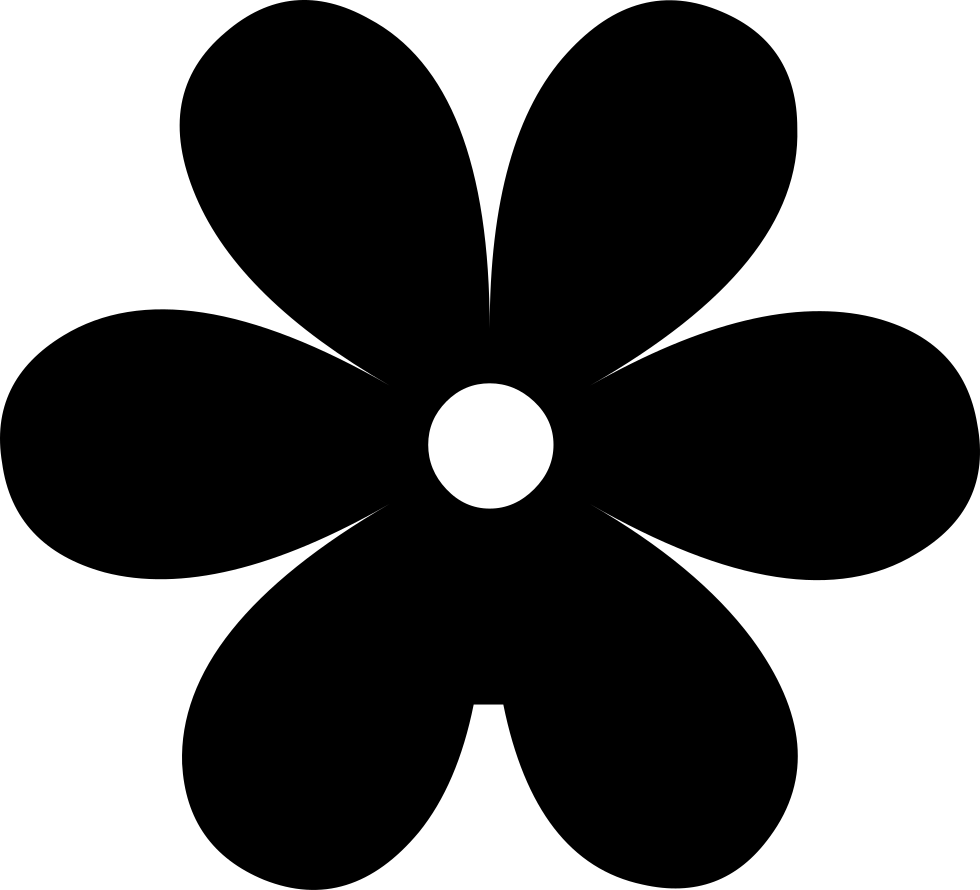
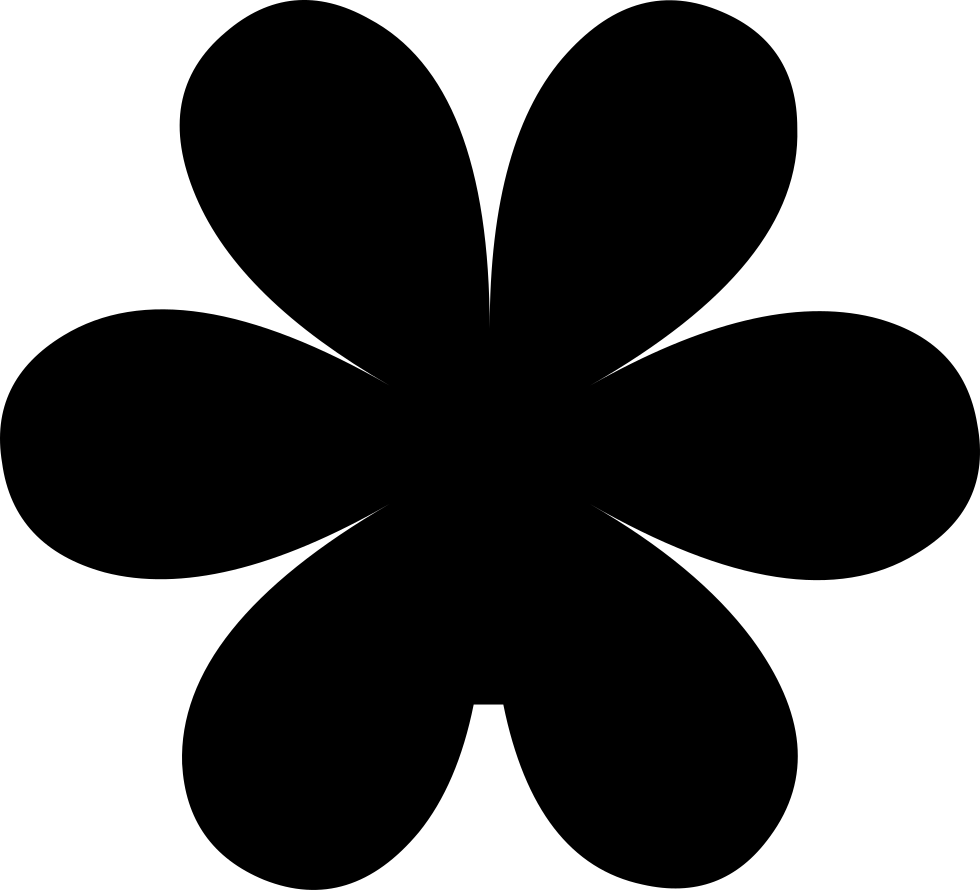
flower base for easier mounting

Changed region(s): [[0.4286, 0.4247, 0.5816, 0.5764]]

diff --git a/examples/decoration/wall_flower/main.go b/examples/decoration/wall_flower/main.go
@@ -13,7 +13,8 @@ const (
 	Radius        = 1.0
 	LengthRadians = 1.0
 	Thickness     = 0.1
-	BaseRadius    = 0.2
+	BaseThickness = 0.1
+	BaseRadius    = 0.5
 )
 
 func main() {
@@ -37,11 +38,7 @@ func main() {
 	})
 	solid := model3d.JoinedSolid{
 		model3d.NewColliderSolidHollow(model3d.MeshToCollider(sphereMesh), Thickness),
-		&model3d.CylinderSolid{
-			P1:     model3d.Coord3D{Z: -Thickness},
-			P2:     model3d.Coord3D{Z: Thickness},
-			Radius: BaseRadius,
-		},
+		BaseSolid{},
 	}
 
 	mesh := model3d.SolidToMesh(solid, 0.01, 0, -1, 30)
@@ -67,4 +64,23 @@ func (f *FlowerShape) Get(x, y float64) bool {
 	intY := int(float64(f.Img.Bounds().Dy()) * (y + LengthRadians) / (LengthRadians * 2))
 	_, _, _, a := f.Img.At(intX, intY).RGBA()
 	return a > 0xffff/2
+}
+
+type BaseSolid struct{}
+
+func (b BaseSolid) Min() model3d.Coord3D {
+	return model3d.Coord3D{X: -Radius, Y: -Radius, Z: -BaseThickness}
+}
+
+func (b BaseSolid) Max() model3d.Coord3D {
+	return model3d.Coord3D{X: Radius, Y: Radius, Z: Radius}
+}
+
+func (b BaseSolid) Contains(c model3d.Coord3D) bool {
+	if c.Min(b.Min()) != b.Min() || c.Max(b.Max()) != b.Max() {
+		return false
+	}
+	cylinderDist := (model3d.Coord3D{X: c.X, Y: c.Y}).Norm()
+	sphereDist := (model3d.Coord3D{X: c.X, Y: c.Y, Z: Radius - c.Z}).Norm()
+	return cylinderDist < BaseRadius && sphereDist >= Radius
 }
